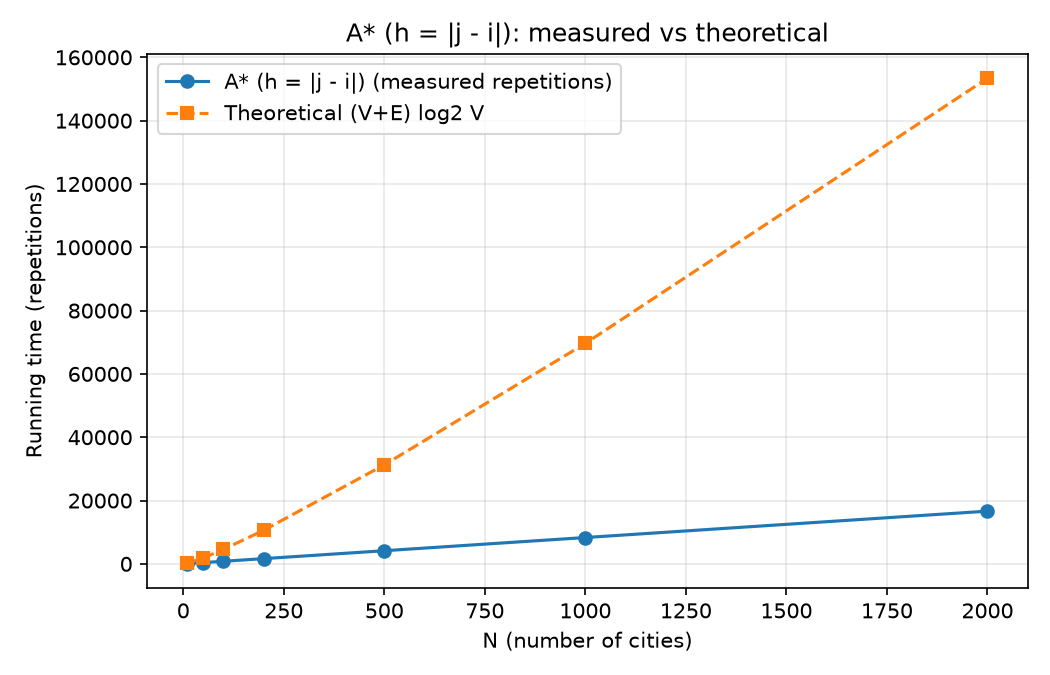
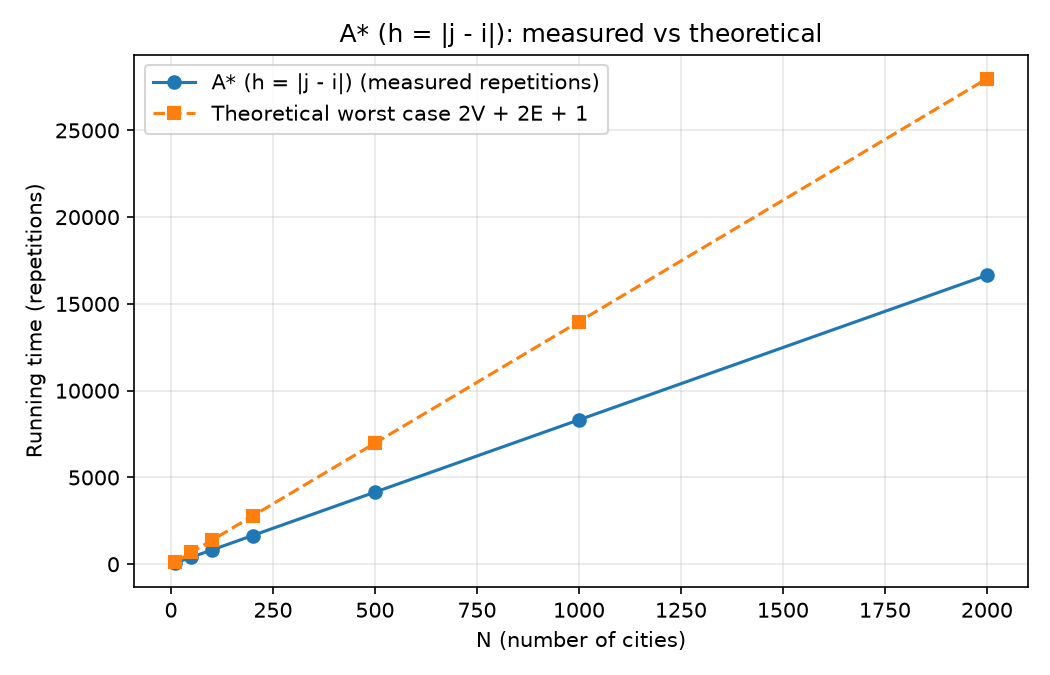
Use 2V+2E+1 theoretical bound in experiments and save results to CSV

diff --git a/src/experiments.py b/src/experiments.py
@@ -2,10 +2,12 @@
 
 Runs N = 10, 50, 100, 200, 500, 1000, 2000 with S = 1, D = N.
 Measured running time = total number of loop repetitions (all c_i = 1).
-Theoretical running time = (V + E) * log2(V), with V = N and E = 6N - 12.
+Theoretical running time (worst case, all c_i = 1), with V = N and E = 6N - 12:
+    init loop V + main loop (E + 1) + neighbor loop E + path loop V = 2V + 2E + 1
+Results are also written to output/results.csv.
 """
 
-import math
+import csv
 import os
 
 import matplotlib.pyplot as plt
@@ -15,12 +17,14 @@ from dijkstra import dijkstra
 from graph import build_graph
 
 N_VALUES = [10, 50, 100, 200, 500, 1000, 2000]
-OUT_DIR = os.path.abspath(os.path.join(os.path.dirname(__file__), "..", "figures"))
+ROOT = os.path.abspath(os.path.join(os.path.dirname(__file__), ".."))
+OUT_DIR = os.path.join(ROOT, "figures")
+CSV_PATH = os.path.join(ROOT, "output", "results.csv")
 
 
 def theoretical(n):
     v, e = n, 6 * n - 12
-    return (v + e) * math.log2(v)
+    return 2 * v + 2 * e + 1
 
 
 def run():
@@ -45,19 +49,28 @@ def run():
 
 
 def print_table(rows):
-    header = f"{'N':>5} {'cost':>9} {'Dijkstra':>9} {'A*|j-i|':>9} {'A* cut':>9} {'exp|j-i|':>9} {'exp cut':>8} {'(V+E)logV':>10}"
+    header = (f"{'N':>5} {'cost':>9} {'Dijkstra':>9} {'A*|j-i|':>9} {'A* cut':>9} "
+              f"{'exp|j-i|':>9} {'exp cut':>8} {'2V+2E+1':>9} {'ratio':>6}")
     print(header)
     print("-" * len(header))
     for r in rows:
         print(f"{r['N']:>5} {r['cost']:>9} {r['dijkstra']:>9} {r['astar_abs']:>9} {r['astar_cut']:>9} "
-              f"{r['expanded_abs']:>9} {r['expanded_cut']:>8} {r['theory']:>10.0f}")
+              f"{r['expanded_abs']:>9} {r['expanded_cut']:>8} {r['theory']:>9} {r['dijkstra'] / r['theory']:>6.3f}")
+
+
+def save_csv(rows):
+    os.makedirs(os.path.dirname(CSV_PATH), exist_ok=True)
+    with open(CSV_PATH, "w", newline="") as f:
+        writer = csv.DictWriter(f, fieldnames=list(rows[0].keys()))
+        writer.writeheader()
+        writer.writerows(rows)
 
 
 def plot(rows, key, label, filename):
     ns = [r["N"] for r in rows]
     fig, ax = plt.subplots(figsize=(7, 4.5))
     ax.plot(ns, [r[key] for r in rows], "o-", label=f"{label} (measured repetitions)")
-    ax.plot(ns, [r["theory"] for r in rows], "s--", label="Theoretical (V+E) log2 V")
+    ax.plot(ns, [r["theory"] for r in rows], "s--", label="Theoretical worst case 2V + 2E + 1")
     ax.set_xlabel("N (number of cities)")
     ax.set_ylabel("Running time (repetitions)")
     ax.set_title(f"{label}: measured vs theoretical")
@@ -88,6 +101,7 @@ if __name__ == "__main__":
     os.makedirs(OUT_DIR, exist_ok=True)
     rows = run()
     print_table(rows)
+    save_csv(rows)
     plot(rows, "dijkstra", "Dijkstra", "dijkstra_runtime.png")
     plot(rows, "astar_abs", "A* (h = |j - i|)", "astar_runtime.png")
     plot_comparison(rows)
